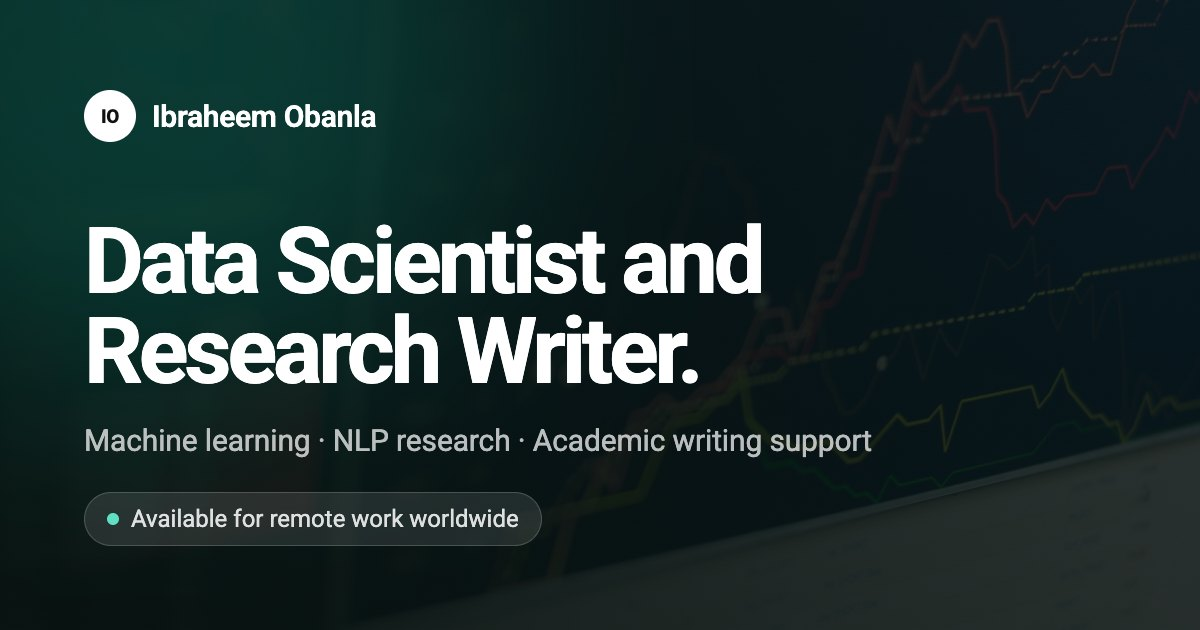
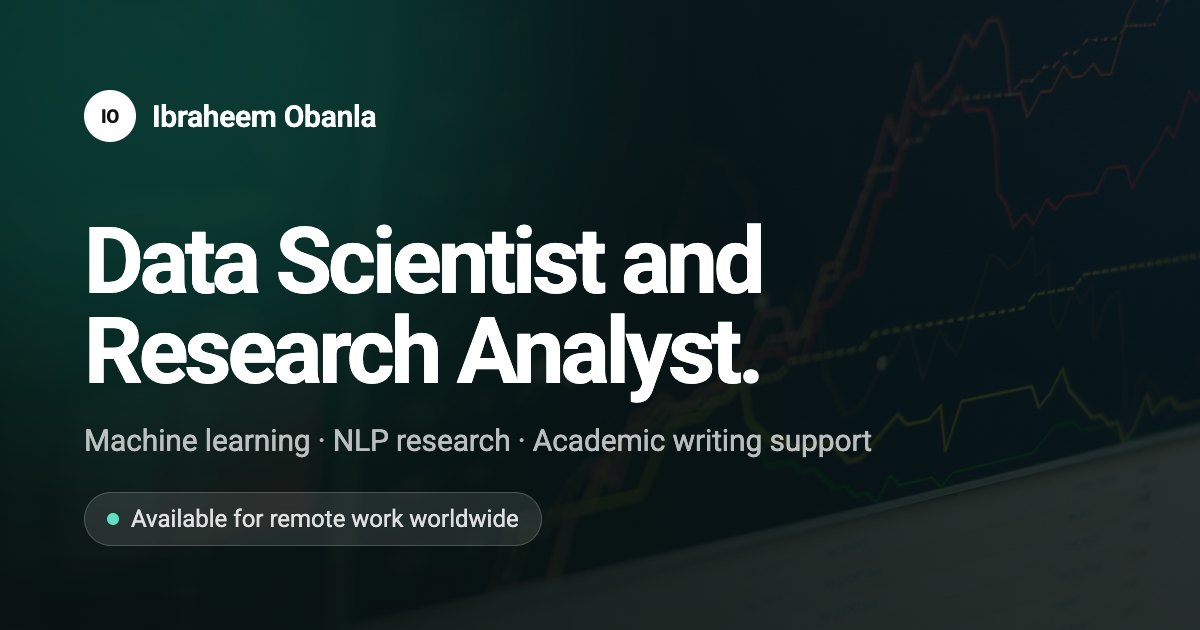
Rename to Research Analyst; add systematic review as in-progress research
Title updated across pages, metadata, share image and README. Statistics
service wording now describes guidance on running analysis.

Changed region(s): [[0.37, 0.4825, 0.6475, 0.6333]]

diff --git a/src/site.ts b/src/site.ts
@@ -5,7 +5,7 @@ export const site = {
   name: 'Ibraheem Obanla',
   /** Long-standing tech nickname, shown as a handle next to the name. */
   handle: 'tolatechy',
-  role: 'Data Scientist & Research Writer',
+  role: 'Data Scientist & Research Analyst',
   location: 'Lagos, Nigeria',
   email: 'ibraheemobanla44@gmail.com',
   whatsapp: 'https://wa.me/2349020660127',

diff --git a/src/content/services/statistics-data-analysis.md b/src/content/services/statistics-data-analysis.md
@@ -1,14 +1,14 @@
 ---
 title: "Statistics and data analysis"
 seoTitle: "Dissertation Statistics & Data Analysis Help in R and Python"
-description: "Statistics help for dissertations and theses: choosing the right test, checking assumptions, running analysis in R or Python, and interpreting and reporting results correctly."
-short: "Choosing suitable methods, running the analysis in R or Python, and understanding how to report the results correctly."
+description: "Statistics help for dissertations and theses: choosing the right test, checking assumptions, guidance on running your analysis in R or Python, and interpreting and reporting results correctly."
+short: "Choosing suitable methods, guidance on running your analysis in R or Python, and understanding how to report the results correctly."
 icon: "ChartColumn"
 audience: "Students with quantitative data and a methods chapter to write, from a statistician with a BSc in Statistics and an MSc in Data and Information Science."
 includes:
   - "Choosing statistical tests and models that answer your research questions"
   - "Preparing and cleaning data, and checking assumptions"
-  - "Running and explaining analysis in R or Python"
+  - "Guidance on running your analysis in R or Python, and explaining the output"
   - "Interpreting output: what the numbers do and don't mean"
   - "Reporting results in tables and text in the style your department uses"
 order: 5

diff --git a/src/content/research/african-nlp-systematic-review.md b/src/content/research/african-nlp-systematic-review.md
@@ -1,0 +1,8 @@
+---
+title: "A systematic review of NLP research on low-resource African languages"
+highlight: "A systematic review of published natural language processing research on low-resource African languages, mapping what has been studied so far and where the gaps are."
+status: in-progress
+area: "Natural language processing"
+year: 2026
+order: 3
+---

diff --git a/README.md b/README.md
@@ -1,7 +1,7 @@
 # ibraheemobanla.com
 
 Source for [ibraheemobanla.com](https://ibraheemobanla.com), the personal site of Ibraheem Obanla,
-Data Scientist & Research Writer.
+Data Scientist & Research Analyst.
 
 Built with [Astro](https://astro.build) and Tailwind CSS, hosted on Cloudflare Pages.
 

diff --git a/src/content/research/parkinsons-attention-deep-learning.md b/src/content/research/parkinsons-attention-deep-learning.md
@@ -9,5 +9,5 @@ coauthors:
   - Olamide Samuel Oseni
   - Toheeb Aduramomi Jimoh
 link: https://arxiv.org/abs/2602.07933
-order: 3
+order: 4
 ---
